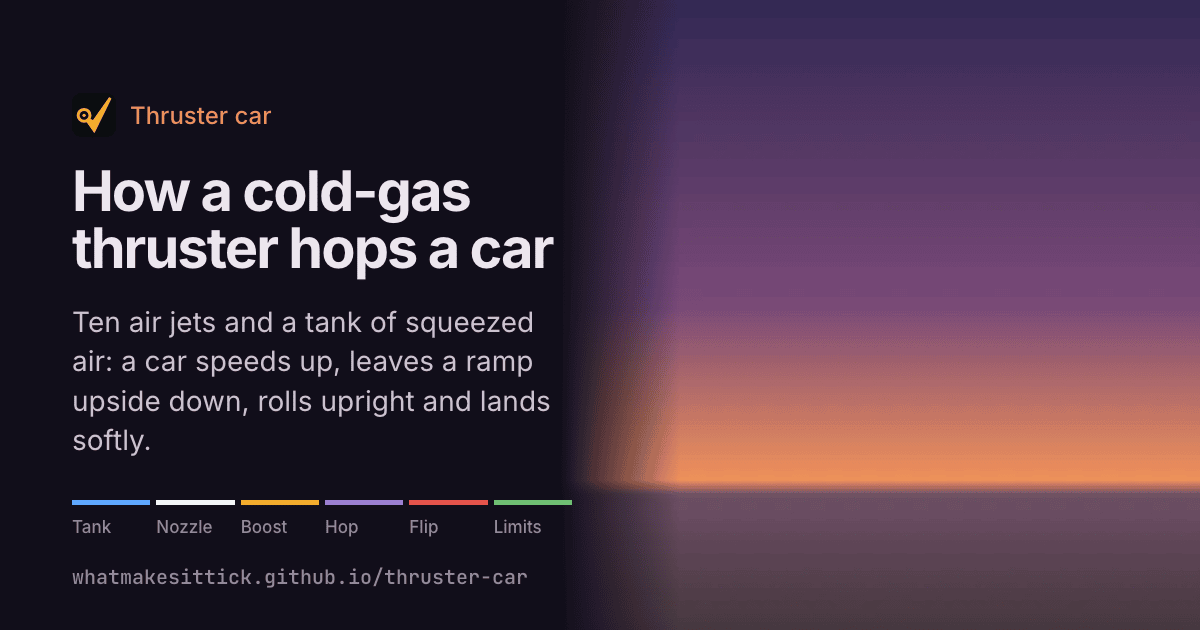
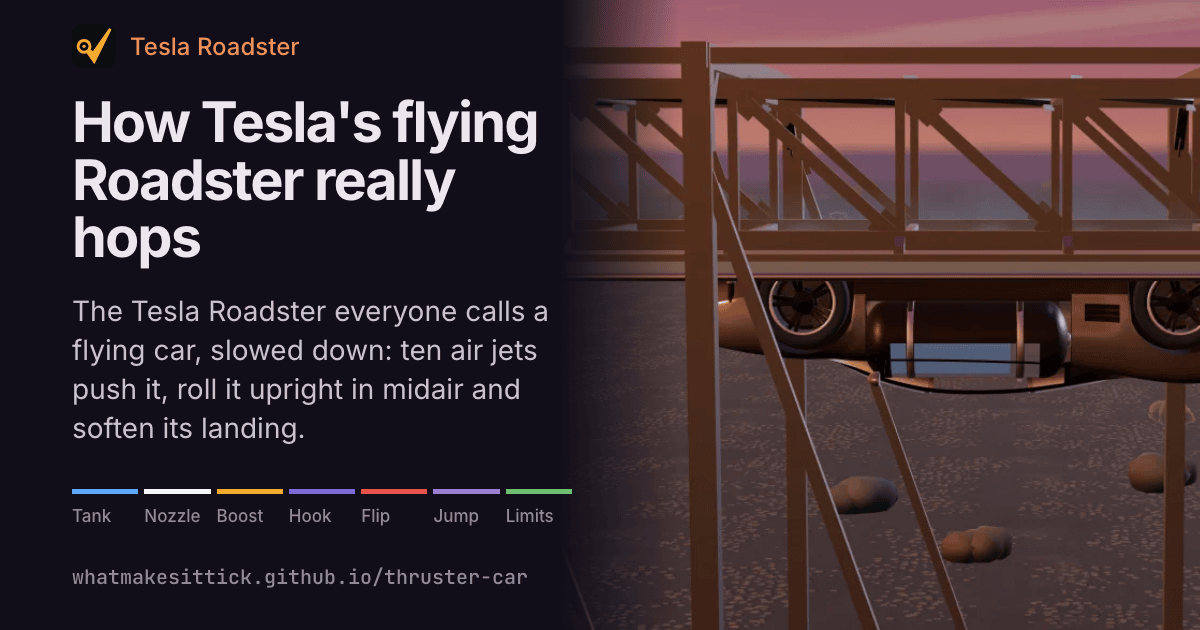
feat(thruster-car): add the cover and social images

diff --git a/scripts/cards/thruster-car.html b/scripts/cards/thruster-car.html
@@ -2,7 +2,7 @@
 <html lang="en">
   <head>
     <meta charset="UTF-8" />
-    <title>How a cold-gas thruster hops a car: social card</title>
+    <title>How Tesla's flying Roadster really hops: social card</title>
     <link rel="preconnect" href="https://fonts.googleapis.com" />
     <link rel="preconnect" href="https://fonts.gstatic.com" crossorigin />
     <link
@@ -19,7 +19,8 @@
         --tank: #5fa8ff;
         --nozzle: #f4f6f8;
         --boost: #f2b134;
-        --hop: #9b7fd1;
+        --hook: #7d6bd6;
+        --jump: #9b7fd1;
         --flip: #e5534b;
         --limits: #6fbf73;
       }
@@ -62,7 +63,7 @@
       .copy {
         position: absolute;
         top: 0;
-        bottom: 0;
+        bottom: 80px;
         left: 72px;
         display: flex;
         flex-direction: column;
@@ -136,19 +137,20 @@
     <main class="copy">
       <p class="eyebrow">
         <img src="../../public/favicon.svg" alt="" />
-        Thruster car
+        Tesla Roadster
       </p>
-      <h1>How a cold-gas thruster hops a car</h1>
+      <h1>How Tesla's flying Roadster really hops</h1>
       <p class="subtitle">
-        Ten air jets and a tank of squeezed air: a car speeds up, leaves a ramp upside down, rolls
-        upright and lands softly.
+        The Tesla Roadster everyone calls a flying car, slowed down: ten air jets push it, roll it
+        upright in midair and soften its landing.
       </p>
       <ol class="topics">
         <li style="--tone: var(--tank)">Tank</li>
         <li style="--tone: var(--nozzle)">Nozzle</li>
         <li style="--tone: var(--boost)">Boost</li>
-        <li style="--tone: var(--hop)">Hop</li>
+        <li style="--tone: var(--hook)">Hook</li>
         <li style="--tone: var(--flip)">Flip</li>
+        <li style="--tone: var(--jump)">Jump</li>
         <li style="--tone: var(--limits)">Limits</li>
       </ol>
     </main>
